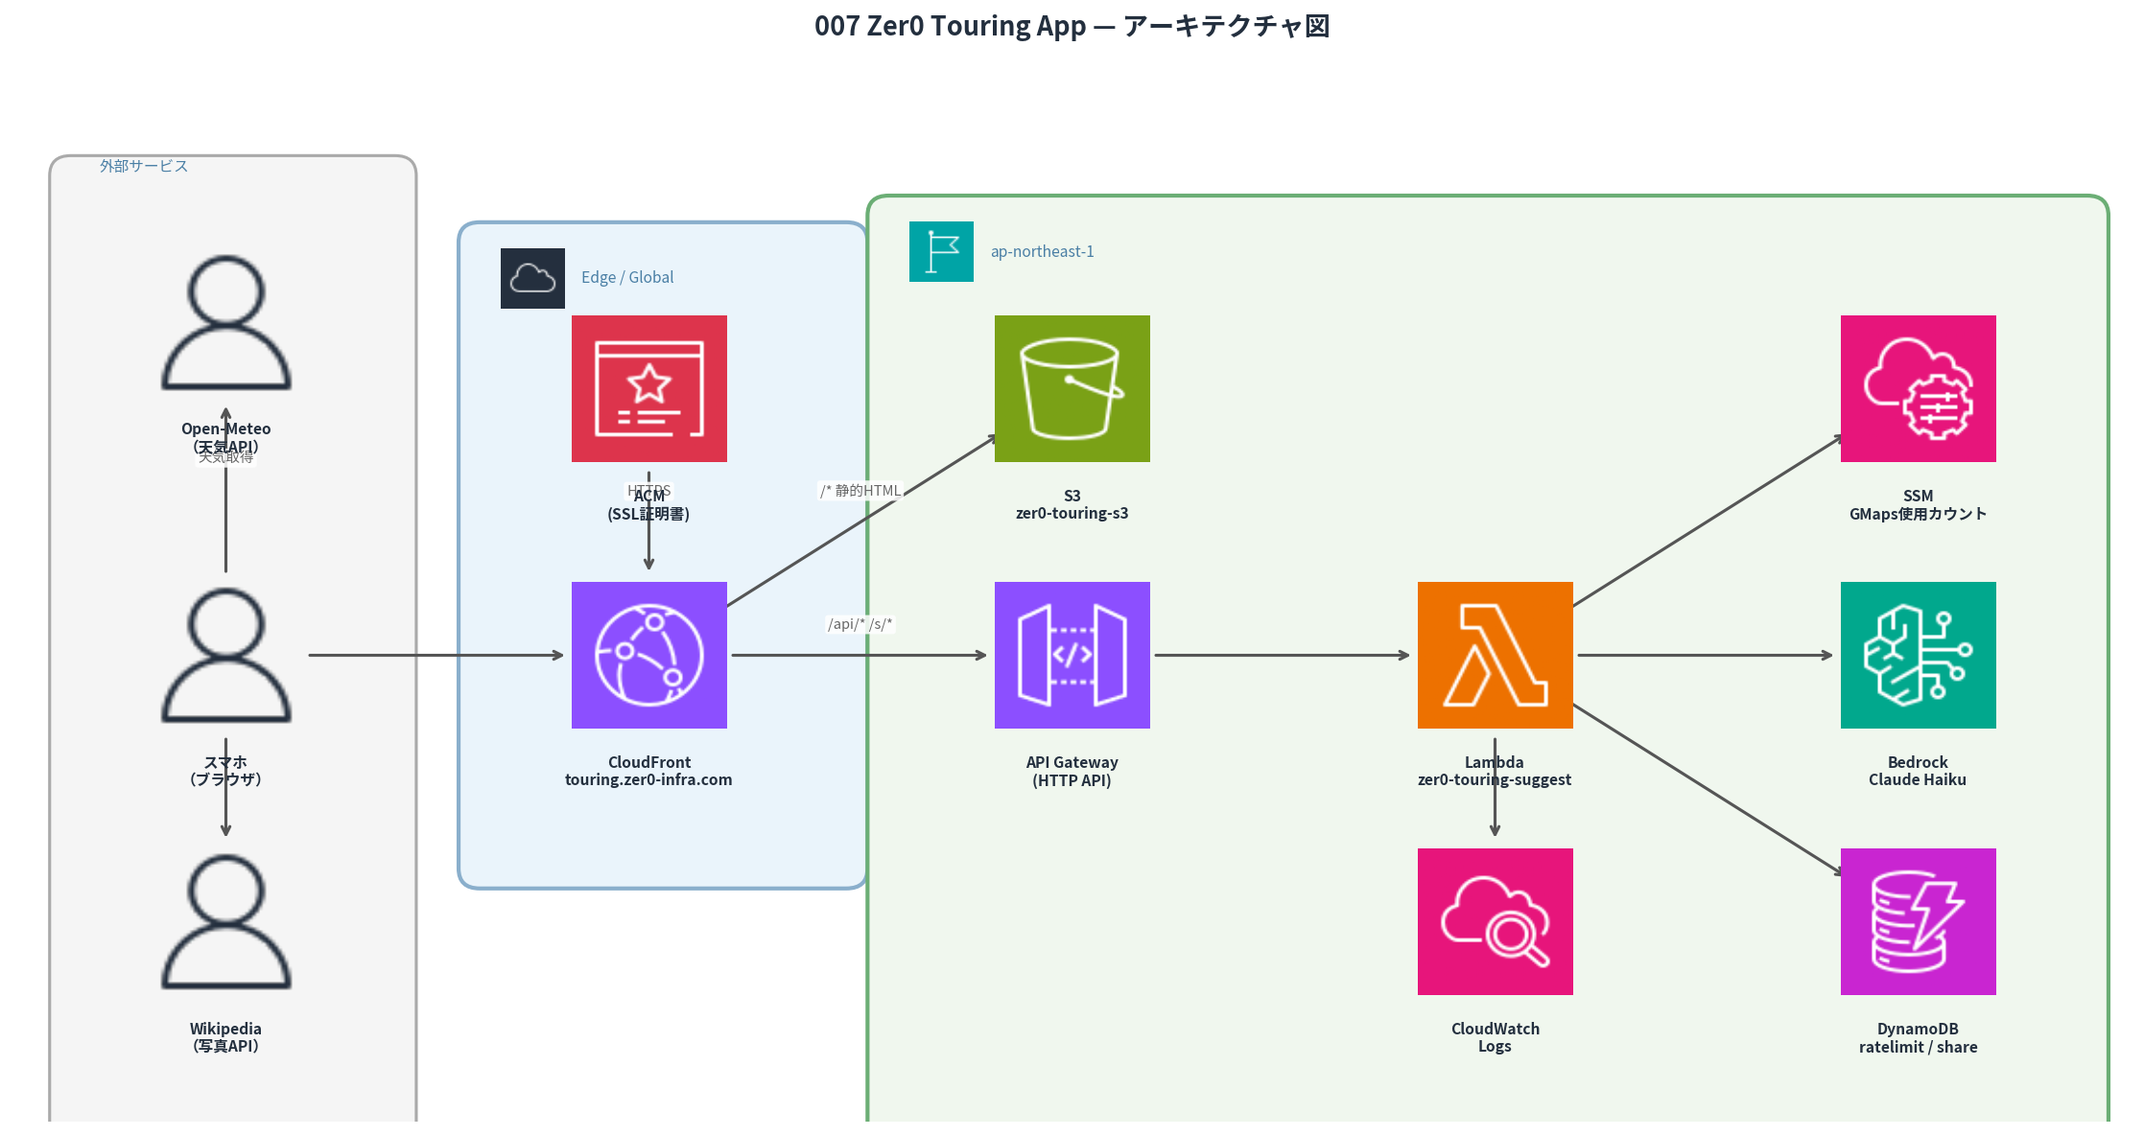
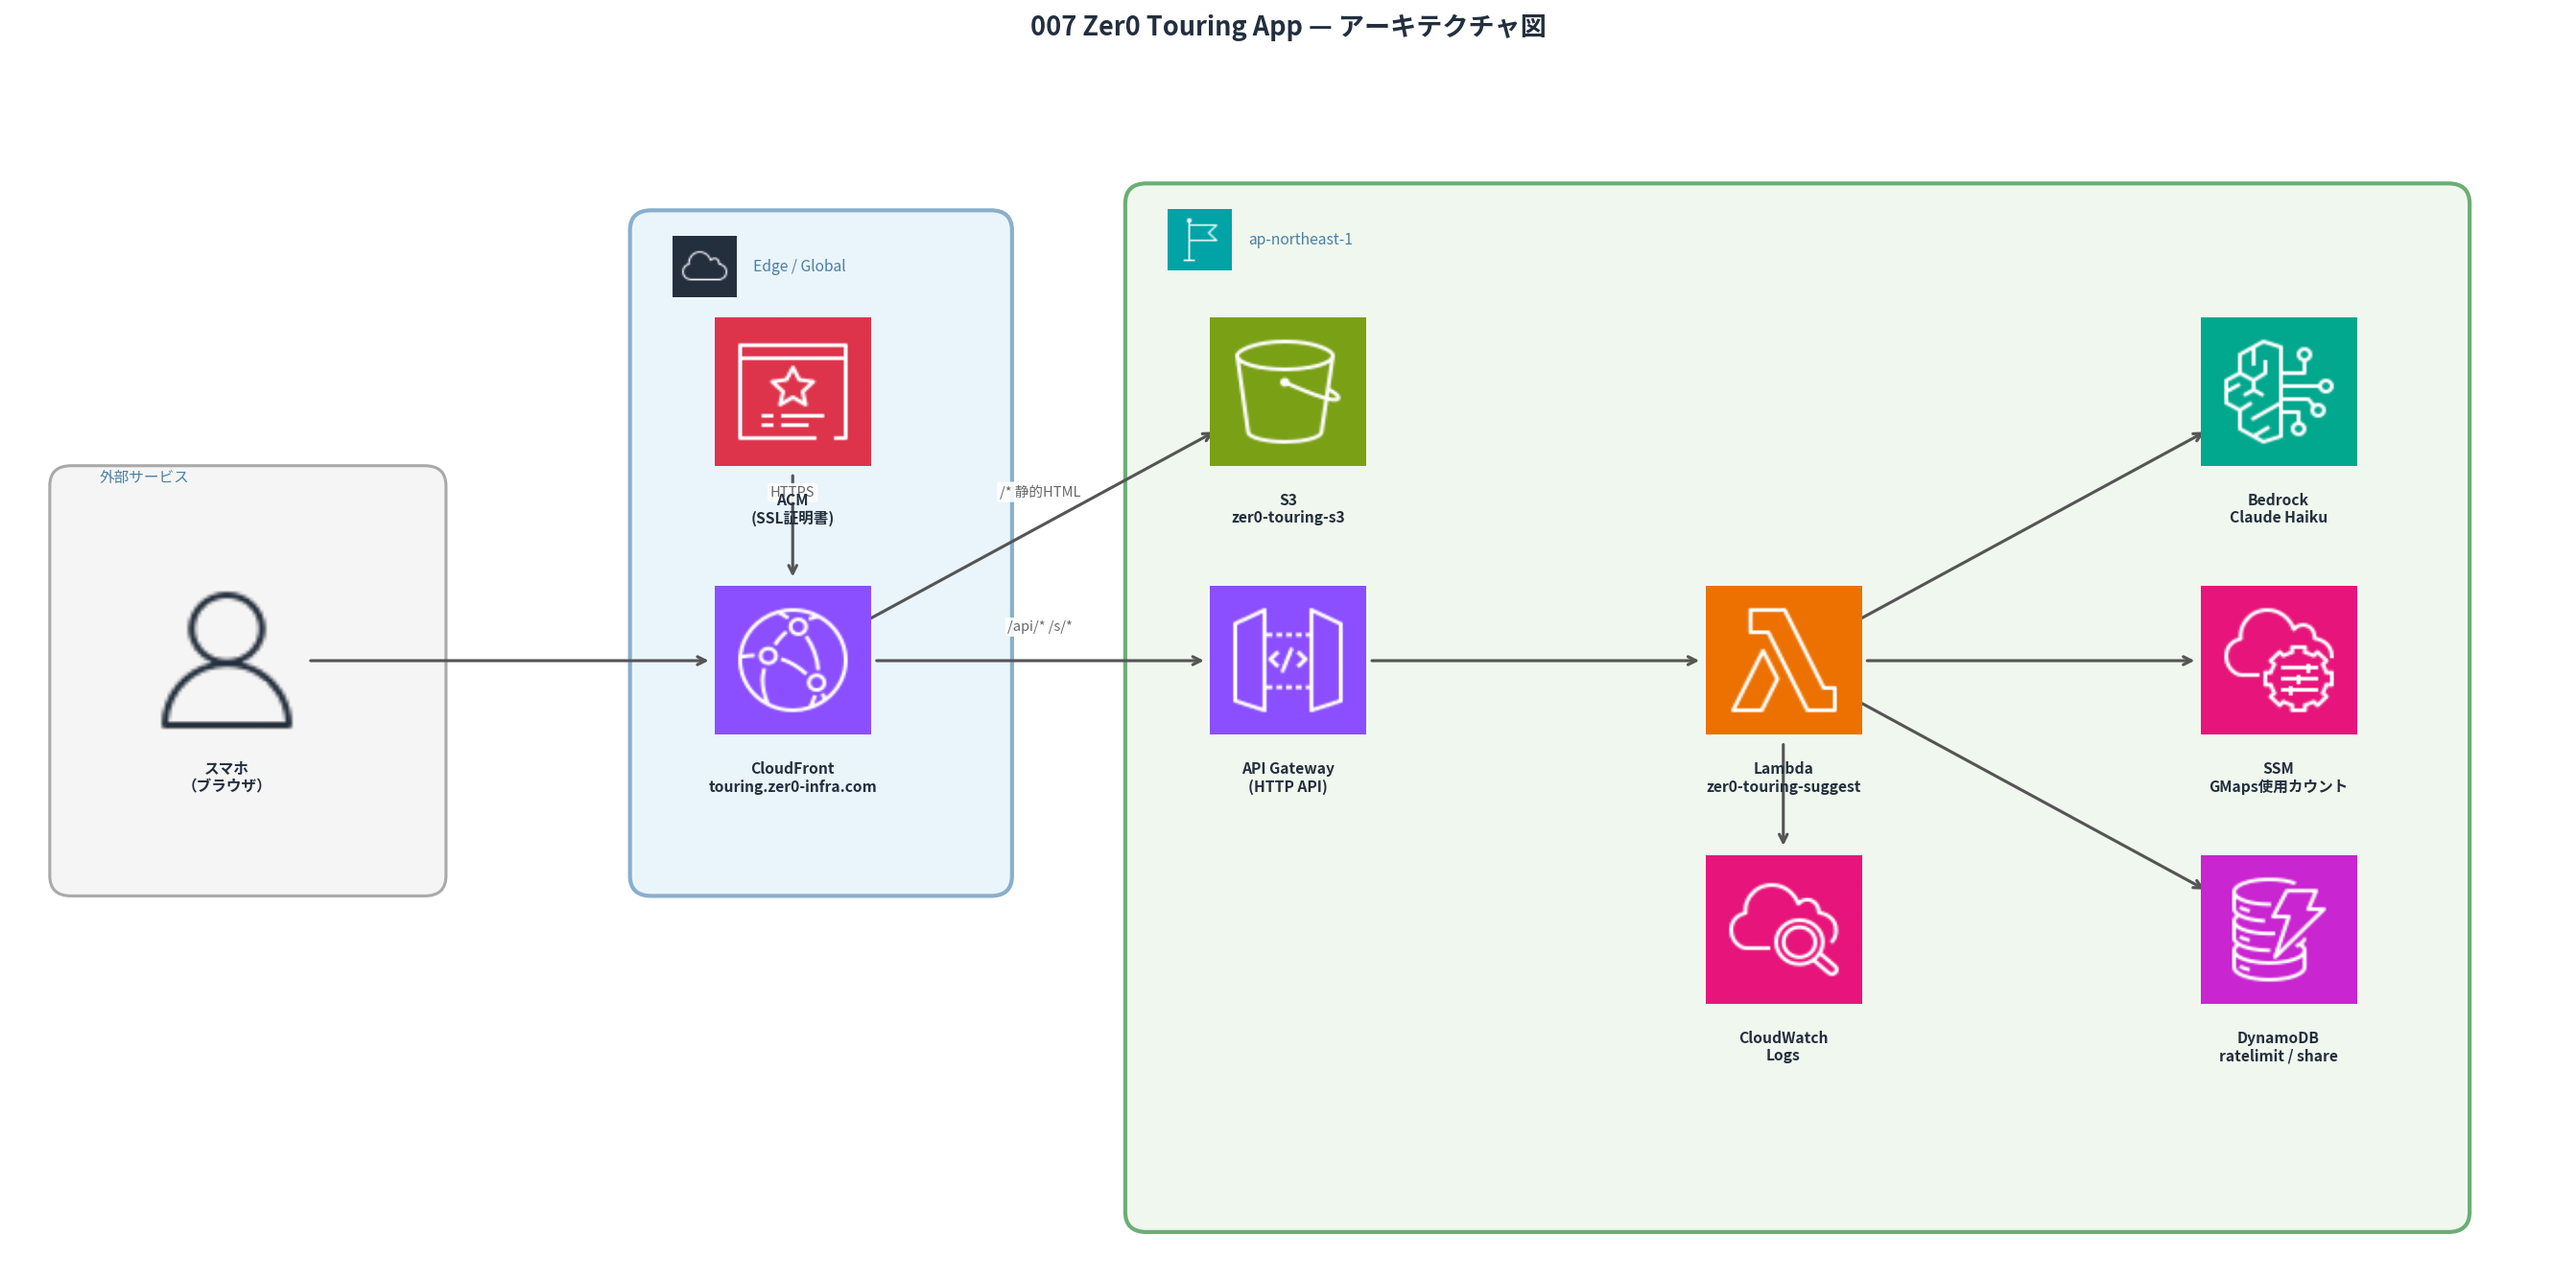
auto-sync: 2026-05-29 20:50

diff --git a/007_zer0-touring-app/generate_diagram.py b/007_zer0-touring-app/generate_diagram.py
@@ -1,4 +1,4 @@
-"""007_Zer0_TouringApp アーキテクチャ図生成スクリプト（generate_project_diagrams.py の gen_007 を呼び出す）"""
+"""007_Zer0_TouringApp アーキテクチャ図生成スクリプト"""
 import os
 import matplotlib
 matplotlib.use('Agg')
@@ -7,7 +7,6 @@ import matplotlib.image as mpimg
 from matplotlib import font_manager
 from matplotlib.patches import FancyBboxPatch
 
-# ── 日本語フォント設定 ──
 for _fp in [
     '/usr/share/fonts/opentype/noto/NotoSansCJK-Regular.ttc',
     '/usr/share/fonts/truetype/noto/NotoSansCJK-Regular.ttc',
@@ -17,25 +16,23 @@ for _fp in [
         matplotlib.rcParams['font.family'] = 'Noto Sans CJK JP'
         break
 
-# ── アイコンパス ──
-_BASE = os.path.dirname(os.path.abspath(__file__))
+_BASE     = os.path.dirname(os.path.abspath(__file__))
 _ICON_DIR = os.path.join(_BASE, '..', 'images', 'AWS-icon')
 _SVC = 'Architecture-Service-Icons_07312025'
 _GRP = 'Architecture-Group-Icons_07312025'
 
 ICONS = {
-    'cloudfront':  f'{_SVC}/Arch_Networking-Content-Delivery/64/Arch_Amazon-CloudFront_64.png',
-    's3':          f'{_SVC}/Arch_Storage/64/Arch_Amazon-Simple-Storage-Service_64.png',
-    'api_gw':      f'{_SVC}/Arch_Networking-Content-Delivery/64/Arch_Amazon-API-Gateway_64.png',
-    'lambda':      f'{_SVC}/Arch_Compute/64/Arch_AWS-Lambda_64.png',
-    'bedrock':     f'{_SVC}/Arch_Artificial-Intelligence/64/Arch_Amazon-Bedrock_64.png',
-    'acm':         f'{_SVC}/Arch_Security-Identity-Compliance/64/Arch_AWS-Certificate-Manager_64.png',
-    'cloudwatch':  f'{_SVC}/Arch_Management-Governance/64/Arch_Amazon-CloudWatch_64.png',
-    'ssm':         f'{_SVC}/Arch_Management-Governance/64/Arch_AWS-Systems-Manager_64.png',
-    'dynamodb':    f'{_SVC}/Arch_Database/64/Arch_Amazon-DynamoDB_64.png',
-    'region':      f'{_GRP}/Region_32.png',
-    'aws_cloud':   f'{_GRP}/AWS-Cloud_32.png',
-    'user':        None,  # ローカル aws_icons/user.png
+    'cloudfront': f'{_SVC}/Arch_Networking-Content-Delivery/64/Arch_Amazon-CloudFront_64.png',
+    's3':         f'{_SVC}/Arch_Storage/64/Arch_Amazon-Simple-Storage-Service_64.png',
+    'api_gw':     f'{_SVC}/Arch_Networking-Content-Delivery/64/Arch_Amazon-API-Gateway_64.png',
+    'lambda':     f'{_SVC}/Arch_Compute/64/Arch_AWS-Lambda_64.png',
+    'bedrock':    f'{_SVC}/Arch_Artificial-Intelligence/64/Arch_Amazon-Bedrock_64.png',
+    'acm':        f'{_SVC}/Arch_Security-Identity-Compliance/64/Arch_AWS-Certificate-Manager_64.png',
+    'cloudwatch': f'{_SVC}/Arch_Management-Governance/64/Arch_Amazon-CloudWatch_64.png',
+    'ssm':        f'{_SVC}/Arch_Management-Governance/64/Arch_AWS-Systems-Manager_64.png',
+    'dynamodb':   f'{_SVC}/Arch_Database/64/Arch_Amazon-DynamoDB_64.png',
+    'region':     f'{_GRP}/Region_32.png',
+    'aws_cloud':  f'{_GRP}/AWS-Cloud_32.png',
 }
 
 _USER_PNG = os.path.join(_BASE, '..', '002_Zenn_Auto_Article_Bot', 'src', 'aws_icons', 'user.png')
@@ -48,72 +45,81 @@ def _load(key):
     return mpimg.imread(path) if os.path.exists(path) else None
 
 
-def _cluster_icon(key):
-    path = os.path.join(_ICON_DIR, ICONS[key])
-    return mpimg.imread(path) if os.path.exists(path) else None
-
-
 def draw():
-    # ── レイアウト ──
-    # xlim=15, ylim=8  figsize=(15,8)
-    # 外部サービス: OpenMeteo(1.5,6.0)  Browser(1.5,3.5)  Wikipedia(1.5,1.5)
-    # Edge/Global:  ACM(4.5,5.5)  CF(4.5,3.5)
-    # ap-northeast-1: S3(7.5,5.5)  SSM(13.5,5.5)
-    #                 APIGW(7.5,3.5)  Lambda(10.5,3.5)  Bedrock(13.5,3.5)
-    #                 CW(10.5,1.5)    DynamoDB(13.5,1.5)
+    # ── レイアウト (xlim=18, ylim=9, figsize=(18,9)) ──
+    #
+    # 外部サービス         Edge/Global        ap-northeast-1
+    # x=1.5               x=5.5              x=9~16
+    #
+    # ブラウザ(1.5,4.5) → CloudFront(5.5,4.5) → API Gateway(9,4.5) → Lambda(12.5,4.5)
+    #                    ACM(5.5,6.5)↓CF      → S3(9,6.5)           →Bedrock(16,6.5)
+    #                    HTTPS↓               /* 静的HTML↑            →SSM(16,4.5)
+    #                                                                 ↓CW(12.5,2.5)
+    #                                                                 →DynamoDB(16,2.5)
+    #
+    # クラスター間ギャップ:
+    #   外部 right=2.9 → Edge left=4.5  → gap=1.6 ✓
+    #   Edge right=6.9 → region left=8.0 → gap=1.1 ✓
+    #
+    # 垂直間隔 (2-lineラベル ≥2.0):
+    #   ACM(6.5)→CF(4.5): 2.0 ✓
+    #   S3(6.5)→APIGW(4.5): 2.0 ✓
+    #   Bedrock(6.5)→SSM(4.5): 2.0 ✓
+    #   SSM(4.5)→DynamoDB(2.5): 2.0 ✓
+    #   Lambda(4.5)→CW(2.5): 2.0 ✓
+    #
+    # 矢印交差なし・クラスター枠とノードの重なりなし
     HALF = 0.55
 
     nodes = [
-        {'id': 'openmeteo', 'icon': 'user',       'label': 'Open-Meteo\n（天気API）',              'x': 1.5,  'y': 6.0},
-        {'id': 'browser',   'icon': 'user',       'label': 'スマホ\n（ブラウザ）',                 'x': 1.5,  'y': 3.5},
-        {'id': 'wikipedia', 'icon': 'user',       'label': 'Wikipedia\n（写真API）',               'x': 1.5,  'y': 1.5},
-        {'id': 'acm',       'icon': 'acm',        'label': 'ACM\n(SSL証明書)',                     'x': 4.5,  'y': 5.5},
-        {'id': 'cf',        'icon': 'cloudfront', 'label': 'CloudFront\ntouring.zer0-infra.com',   'x': 4.5,  'y': 3.5},
-        {'id': 's3',        'icon': 's3',         'label': 'S3\nzer0-touring-s3',                 'x': 7.5,  'y': 5.5},
-        {'id': 'ssm',       'icon': 'ssm',        'label': 'SSM\nGMaps使用カウント',               'x': 13.5, 'y': 5.5},
-        {'id': 'apigw',     'icon': 'api_gw',     'label': 'API Gateway\n(HTTP API)',              'x': 7.5,  'y': 3.5},
-        {'id': 'lambda',    'icon': 'lambda',     'label': 'Lambda\nzer0-touring-suggest',         'x': 10.5, 'y': 3.5},
-        {'id': 'bedrock',   'icon': 'bedrock',    'label': 'Bedrock\nClaude Haiku',               'x': 13.5, 'y': 3.5},
-        {'id': 'cw',        'icon': 'cloudwatch', 'label': 'CloudWatch\nLogs',                    'x': 10.5, 'y': 1.5},
-        {'id': 'dynamodb',  'icon': 'dynamodb',   'label': 'DynamoDB\nratelimit / share',          'x': 13.5, 'y': 1.5},
+        {'id': 'browser',  'icon': 'user',       'label': 'スマホ\n（ブラウザ）',              'x': 1.5,  'y': 4.5},
+        {'id': 'acm',      'icon': 'acm',        'label': 'ACM\n(SSL証明書)',                  'x': 5.5,  'y': 6.5},
+        {'id': 'cf',       'icon': 'cloudfront', 'label': 'CloudFront\ntouring.zer0-infra.com', 'x': 5.5,  'y': 4.5},
+        {'id': 's3',       'icon': 's3',         'label': 'S3\nzer0-touring-s3',               'x': 9.0,  'y': 6.5},
+        {'id': 'apigw',    'icon': 'api_gw',     'label': 'API Gateway\n(HTTP API)',            'x': 9.0,  'y': 4.5},
+        {'id': 'lambda',   'icon': 'lambda',     'label': 'Lambda\nzer0-touring-suggest',       'x': 12.5, 'y': 4.5},
+        {'id': 'bedrock',  'icon': 'bedrock',    'label': 'Bedrock\nClaude Haiku',              'x': 16.0, 'y': 6.5},
+        {'id': 'ssm',      'icon': 'ssm',        'label': 'SSM\nGMaps使用カウント',             'x': 16.0, 'y': 4.5},
+        {'id': 'cw',       'icon': 'cloudwatch', 'label': 'CloudWatch\nLogs',                  'x': 12.5, 'y': 2.5},
+        {'id': 'dynamodb', 'icon': 'dynamodb',   'label': 'DynamoDB\nratelimit / share',        'x': 16.0, 'y': 2.5},
     ]
 
     edges = [
-        ('browser',  'openmeteo', '天気取得'),
-        ('browser',  'wikipedia', ''),
-        ('browser',  'cf',        ''),
-        ('acm',      'cf',        'HTTPS'),
-        ('cf',       's3',        '/* 静的HTML'),
-        ('cf',       'apigw',     '/api/* /s/*'),
-        ('apigw',    'lambda',    ''),
-        ('lambda',   'bedrock',   ''),
-        ('lambda',   'ssm',       ''),
-        ('lambda',   'cw',        ''),
-        ('lambda',   'dynamodb',  ''),
+        ('browser', 'cf',       ''),
+        ('acm',     'cf',       'HTTPS'),
+        ('cf',      's3',       '/* 静的HTML'),
+        ('cf',      'apigw',    '/api/* /s/*'),
+        ('apigw',   'lambda',   ''),
+        ('lambda',  'bedrock',  ''),
+        ('lambda',  'ssm',      ''),
+        ('lambda',  'cw',       ''),
+        ('lambda',  'dynamodb', ''),
     ]
 
+    # クラスター座標は auto-padding が発火しないよう事前計算済み
+    # PAD_H=1.0, PAD_TOP=1.1, PAD_BOT=1.6
     clusters = [
         {
             'label': '外部サービス', 'icon': None,
-            'x': 0.4, 'y': 0.5, 'w': 2.3, 'h': 6.2,
+            'x': 0.4, 'y': 2.9, 'w': 2.5, 'h': 2.9,
             'color': '#F5F5F5', 'edgecolor': '#AAAAAA',
             'linestyle': '-', 'linewidth': 1.5,
         },
         {
             'label': 'Edge / Global', 'icon': 'aws_cloud',
-            'x': 3.3, 'y': 2.3, 'w': 2.6, 'h': 4.1,
+            'x': 4.5, 'y': 2.9, 'w': 2.4, 'h': 4.8,
             'color': '#EAF4FB', 'edgecolor': '#8AAFCC',
             'linestyle': '-', 'linewidth': 2.0,
         },
         {
             'label': 'ap-northeast-1', 'icon': 'region',
-            'x': 6.2, 'y': 0.3, 'w': 8.5, 'h': 6.5,
+            'x': 8.0, 'y': 0.4, 'w': 9.2, 'h': 7.5,
             'color': '#F0F7EE', 'edgecolor': '#6BAE75',
             'linestyle': '-', 'linewidth': 2.0,
         },
     ]
 
-    # ── 自動パディング調整 ──
+    # ── 自動パディング調整（念のため） ──
     _PAD_H   = HALF + 0.45
     _PAD_TOP = HALF + 0.55
     _PAD_BOT = HALF + 1.05
@@ -132,9 +138,26 @@ def draw():
             if ny - cl['y'] < _PAD_BOT:
                 d = _PAD_BOT - (ny - cl['y']); cl['y'] -= d; cl['h'] += d
 
-    fig, ax = plt.subplots(figsize=(15, 8), dpi=150)
-    ax.set_xlim(0, 15)
-    ax.set_ylim(0, 8)
+    # ── クラスター間重複解消 ──
+    _MIN_GAP = 0.8
+    for _ in range(20):
+        moved = False
+        for i in range(len(clusters)):
+            for j in range(i + 1, len(clusters)):
+                ca, cb = clusters[i], clusters[j]
+                if ca['y'] < cb['y'] + cb['h'] and cb['y'] < ca['y'] + ca['h']:
+                    if ca['x'] + ca['w'] + _MIN_GAP > cb['x'] and ca['x'] < cb['x']:
+                        push = ca['x'] + ca['w'] + _MIN_GAP - cb['x']
+                        cb['x'] += push; moved = True
+                    elif cb['x'] + cb['w'] + _MIN_GAP > ca['x'] and cb['x'] < ca['x']:
+                        push = cb['x'] + cb['w'] + _MIN_GAP - ca['x']
+                        ca['x'] += push; moved = True
+        if not moved:
+            break
+
+    fig, ax = plt.subplots(figsize=(18, 9), dpi=150)
+    ax.set_xlim(0, 18)
+    ax.set_ylim(0, 9)
     ax.set_aspect('equal')
     ax.axis('off')
     fig.patch.set_facecolor('white')
@@ -156,11 +179,11 @@ def draw():
         )
         ax.add_patch(rect)
         if has_icon:
-            img = _cluster_icon(cl['icon'])
+            img_c = _load(cl['icon'])
             ix = cl['x'] + 0.15
             iy = cl['y'] + cl['h'] - ICON_SZ - 0.05
-            if img is not None:
-                ax.imshow(img, extent=[ix, ix + ICON_SZ, iy, iy + ICON_SZ],
+            if img_c is not None:
+                ax.imshow(img_c, extent=[ix, ix + ICON_SZ, iy, iy + ICON_SZ],
                           aspect='auto', zorder=6, interpolation='bilinear')
             tx = ix + ICON_SZ + 0.12
             ty = cl['y'] + cl['h'] - ICON_SZ / 2 - 0.05
@@ -189,11 +212,11 @@ def draw():
         if label:
             mx = (n1['x'] + n2['x']) / 2
             my = (n1['y'] + n2['y']) / 2
-            ax.text(mx, my + 0.18, label, ha='center', va='bottom',
+            ax.text(mx, my + 0.2, label, ha='center', va='bottom',
                     fontsize=7, color='#666666',
                     bbox=dict(boxstyle='round,pad=0.2', facecolor='white',
-                              edgecolor='none', alpha=0.85),
-                    zorder=4)
+                              edgecolor='none', alpha=0.9),
+                    zorder=5)
 
     for n in nodes:
         x, y = n['x'], n['y']
